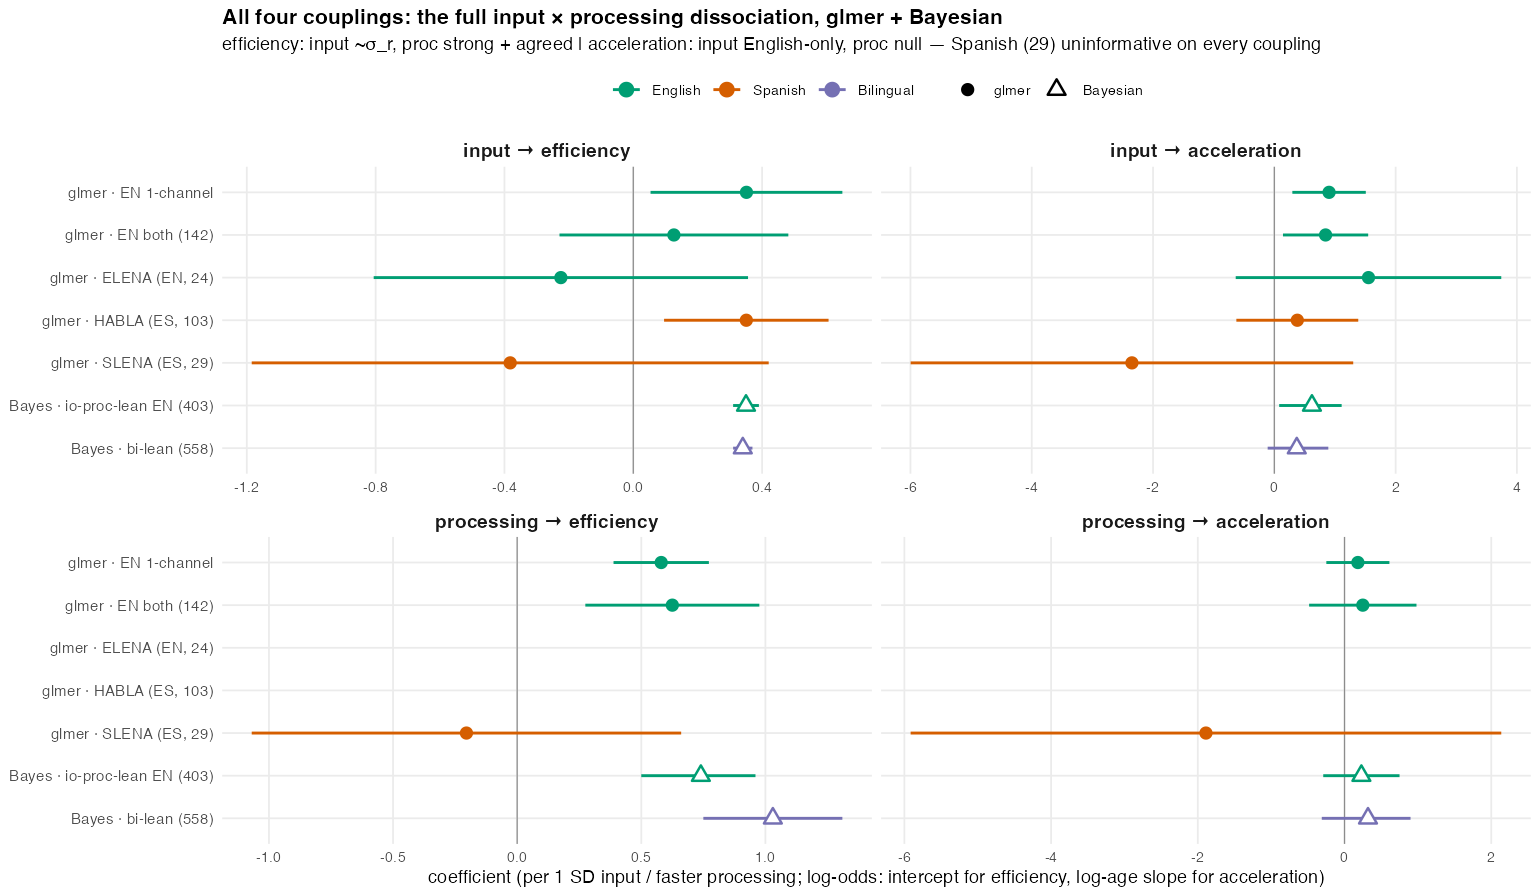
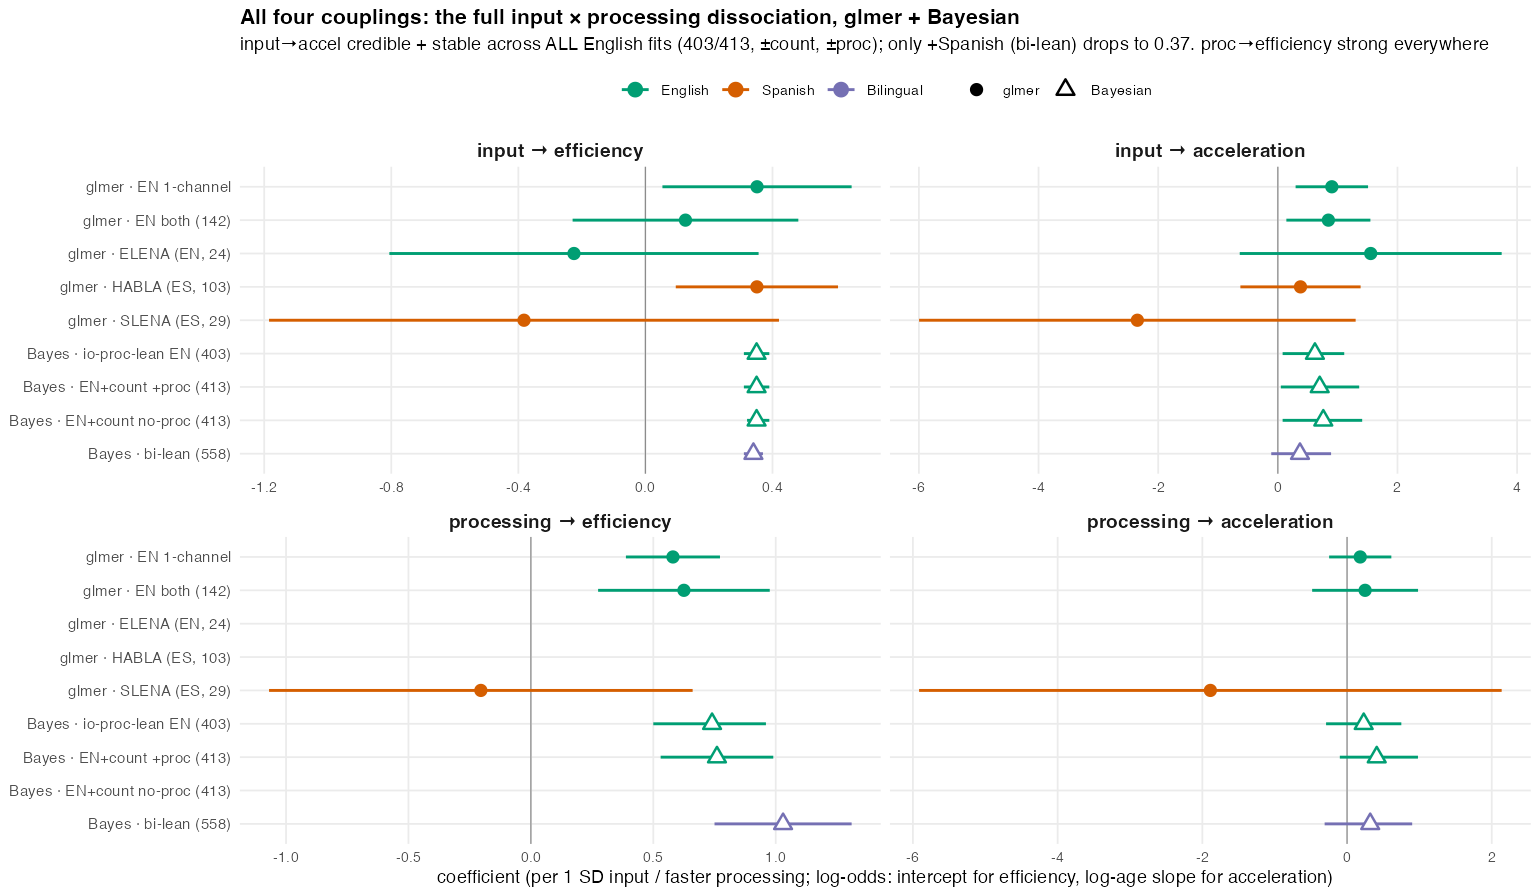
analysis: English+count stability runs -- destabilizer isolated to Spanish (entry 39)
Two MCF stability runs on the English+count bundle (I=413, ELENA-WS sumscores, no Spanish):
+proc (bi-lean) and no-proc (log_irt_long_io_count). Both stable + credible: input->accel 0.70
[.05,1.36] (+proc) / 0.76 [.08,1.41] (no-proc, ess 88 -- best-converged), sigma_zeta steady 4.31,
delta ~10.3. So the English count cohort is benign and processing is innocent; the bilingual
destabilization (sigma_zeta 5.60, ess 22) is SPECIFICALLY the underpowered Spanish data (SLENA +
HABLA). Validates the step-1/step-2 paper structure. experiments.md entry 39; four_couplings_forest
updated with the two EN+count points (English Bayesian fits cluster tight, only bi-lean drops).

diff --git a/journal/experiments.md b/journal/experiments.md
@@ -2333,6 +2333,50 @@ with the bilingual fit's value caveated as English-driven + weakly identified. (
 
 ---
 
+## 🟢 39. English+count stability runs — destabilizer isolated to Spanish (2026-06-28)
+
+**Goal (MCF).** Two confirmatory runs to (A) verify English gives stable estimates *including*
+the no-item-level sumscore kids, and (B) that stability holds with **no processing** — and
+thereby separate the three causes the bilingual fit confounded: Spanish data vs the count
+mechanism vs processing competition.
+
+**Setup.** `prepare_english_count_bundle.R` → English mm bundle + the ELENA-WS English sumscore
+admins, **no Spanish** (I=413, n_sum=95, one English-WS form). Two fits:
+- **+proc:** bi-lean model (`log_irt_long_proc_bilingual.stan`), rung D'2 (job 31764181).
+- **no-proc:** new `log_irt_long_io_count.stan` — the bi-lean model with the LWL/`rt0`/`beta_xi`/
+  `beta_k0` processing channel stripped = the paper's **step-1 input+vocabulary model** (job 31764182).
+
+**Result — both goals met, and it pins the blame on Spanish.**
+
+| | EN (no count) | EN+count +proc | EN+count no-proc | BILINGUAL |
+|---|--:|--:|--:|--:|
+| input→accel | 0.62 [.08,1.11] | **0.70 [.05,1.36]** | **0.76 [.08,1.41]** | 0.37 [−.11,.89] |
+| ess (γ_in) | 134 | 63 | **88** | **22** |
+| max r̂ | 1.034 | 1.067 | **1.033** | 1.125 |
+| σ_ζ | 4.16 | 4.31 | 4.31 | **5.60** |
+| δ | 10.09 | 10.29 | 10.30 | 9.15 |
+| proc→eff | −0.74 | −0.76 | — | −1.03 |
+
+- **(A) English is stable + credible with the count kids.** Adding ELENA *raised* input→accel
+  (0.62→0.70), CI still clears 0, σ_ζ barely moved (4.16→4.31), δ steady ~10.3. The count
+  *mechanism* is benign — it adds longitudinal signal, doesn't destabilize.
+- **(B) No-processing is stable — the best-converged of all four** (0.76 [.08,1.41], ess 88,
+  max r̂ 1.033). The input+vocabulary base stands alone cleanly.
+- **The destabilizer is specifically the Spanish data.** Bilingual is the *only* fit that breaks
+  (ess 22, σ_ζ 5.60, CI ∋ 0). Same count machinery in English is fine → it's SLENA + HABLA
+  inflating σ_ζ and collapsing `gamma_in`, exactly as the per-cohort glmer predicted (underpower).
+- **Processing is innocent.** ±proc agree on input→accel (0.70 vs 0.76); proc→efficiency clean
+  either way (−0.76, ess 347). No processing-competition effect — and the two layers compose
+  cleanly, validating the step-1/step-2 paper structure. (`four_couplings_forest.png` updated:
+  the three English Bayesian fits cluster tight + credible on input→accel; only bi-lean drops.)
+
+**For the paper:** report the **English io / io-proc** as the main model (input→accel ~0.7
+credible, proc→efficiency ~−0.76, reproducing the glmer benchmark); the bilingual extension
+contributes Spanish-on-scale + a strengthened proc→efficiency + the validated count branch, with
+input→accel honestly caveated as Spanish-underpowered.
+
+---
+
 ## Backlog (⚪)
 
 ### Data / robustness
